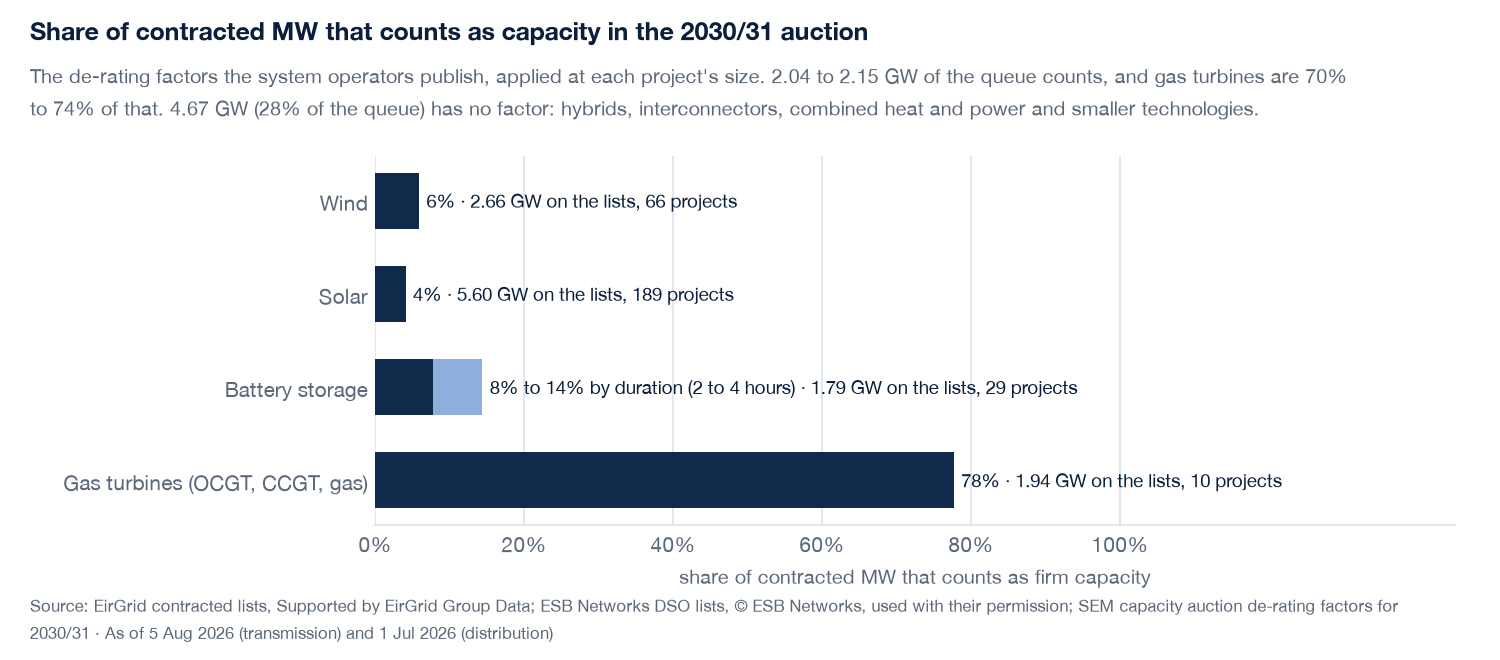
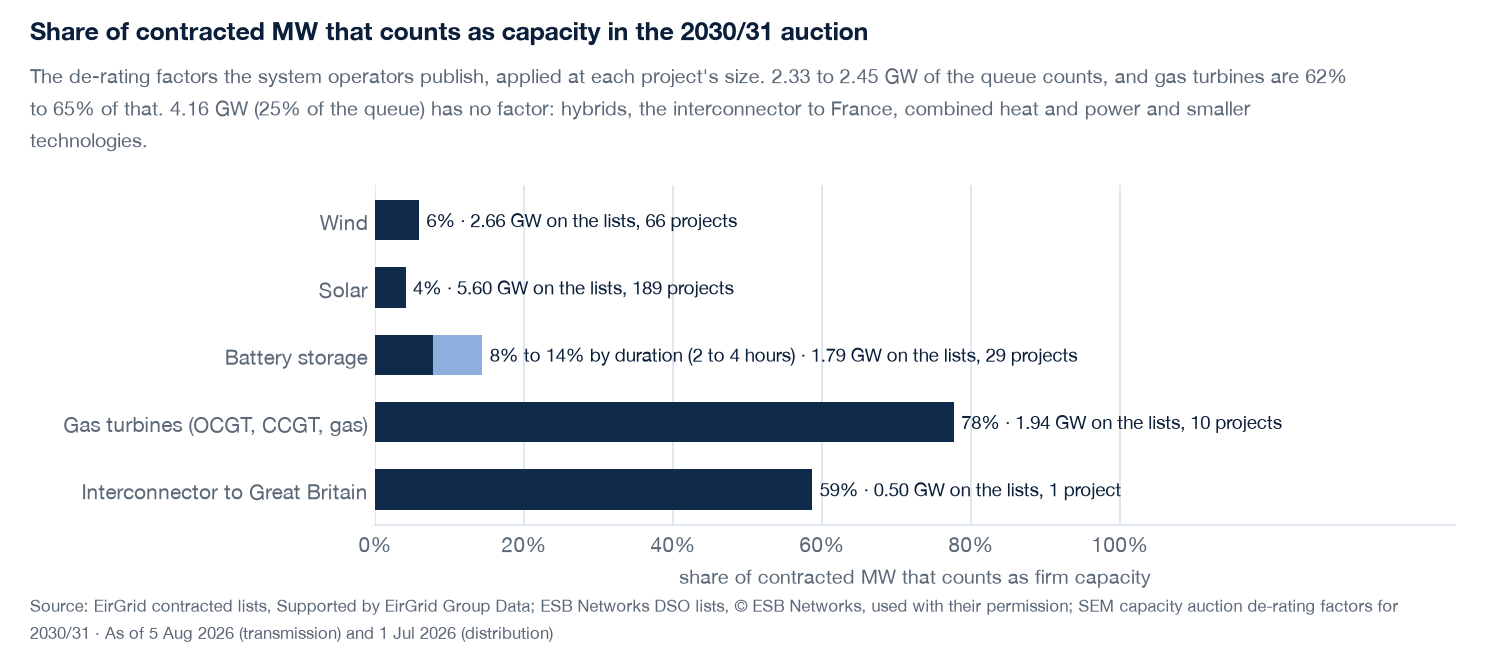
Layer 9: the Great Britain interconnector counts by the pack's printed curve
The pack's footnotes say the GB interconnector curve is already adjusted by its
external-market factor and that an EU interconnector is non-participating, so
Greenlink (504 MW) gets a factor and Celtic stays in the listed remainder.
Counts 2.04-2.15 GW becomes 2.33-2.45 GW; layer 10's deficit share 8%-17%.

diff --git a/site/components/Dashboard.tsx b/site/components/Dashboard.tsx
@@ -680,7 +680,7 @@ export function Dashboard({ report }: { report: Report }) {
               <Figure
                 id="fig-firm"
                 title={`Of the ${gw(f.applied_mw / 1000)} of the queue with a published factor, ${gw(f.totals.latest.low_mw / 1000)} to ${gw(f.totals.latest.high_mw / 1000)} counts as capacity in the ${f.latest_year} auction${gasText}`}
-                subtitle={`Share of each technology's contracted MW that the capacity auction counts, from the de-rating factors the system operators publish for the ${f.latest_year} auction, applied at each project's size. A battery's duration is not on the lists, so storage is shown for ${f.storage_hours.low} and ${f.storage_hours.high} hours. ${mw(f.left_alone_mw)}${f.left_alone_share === null ? "" : ` (${pct(f.left_alone_share)} of the queue)`} has no factor applied: hybrids such as solar with a battery, interconnectors, combined heat and power, and smaller technologies. This is the auction's rule for what a megawatt is worth, not a forecast that a project connects and not what a megawatt delivers in an hour.`}
+                subtitle={`Share of each technology's contracted MW that the capacity auction counts, from the de-rating factors the system operators publish for the ${f.latest_year} auction, applied at each project's size. A battery's duration is not on the lists, so storage is shown for ${f.storage_hours.low} and ${f.storage_hours.high} hours. ${mw(f.left_alone_mw)}${f.left_alone_share === null ? "" : ` (${pct(f.left_alone_share)} of the queue)`} has no factor applied: hybrids such as solar with a battery, the interconnector to France (which the auction treats as outside it), combined heat and power, and smaller technologies. This is the auction's rule for what a megawatt is worth, not a forecast that a project connects and not what a megawatt delivers in an hour.`}
                 footer={`Source: ${f.sources.map((x) => `${x.name}, read ${x.checked_on}`).join("; ")}; ${EIRGRID}; ${ESB}`}
                 table={{
                   headings: ["Technology", "Projects", "Contracted", `Counts, ${f.prior_year}`, `Counts, ${f.latest_year}`, `Share, ${f.latest_year}`],

diff --git a/src/iegrid/derating.py b/src/iegrid/derating.py
@@ -15,11 +15,14 @@ What it applies, and what it leaves alone, is stated on the page and in the READ
 
     wind, solar        Table 5, one factor each
     gas turbine class  Table 1's Gas Turbine curve at the unit's size (OCGT, CCGT, gas)
+    interconnector     Table 1's Interconnector curve at the unit's size, for an interconnector to Great
+                       Britain (Greenlink). The pack says that curve is already adjusted by its external-market
+                       factor, so it is applied as printed. The pack treats an interconnector to another EU
+                       state (Celtic, to France) as non-participating capacity in the auction: no factor
     battery            Table 3 (other storage) at the unit's size, for 2 and 4 hours of storage:
                        the lists do not say how long a battery lasts, so both are shown
     everything else    no factor applied, listed with its MW: hybrids (a solar-plus-battery
-                       project is one MEC, and the pack gives no hybrid class), interconnectors
-                       (their factor is scaled by an external-market factor not read here),
+                       project is one MEC, and the pack gives no hybrid class), the EU interconnector,
                        biomass, hydro, CHP, reciprocating engines, wave, synchronous condensers
 
 The factor is the pack's marginal factor for the unit's size, which is how the pack tells an
@@ -101,6 +104,7 @@ def extract(pack: Path) -> tuple[list[dict], dict]:
     for page, bands in t1:
         for lo, hi, vals in bands:
             add(1, "Gas Turbine", "", lo, hi, vals[1], page)
+            add(1, "Interconnector", "", lo, hi, vals[4], page)
     t3_all = []
     for p, t in pages.items():
         if p in (7, 8):
@@ -167,6 +171,8 @@ CLASS_OF = {
     "Battery": "Other Storage", "Battery Storage": "Other Storage",
     "OCGT": "Gas Turbine", "CCGT": "Gas Turbine", "Gas": "Gas Turbine", "Nat. Gas": "Gas Turbine",
 }
+# Greenlink joins Wales to Ireland (Great Britain); Celtic joins Cork to France (an EU state)
+GB_INTERCONNECTORS = ("Greenlink",)
 SOURCES = ("eirgrid.tso_contracted_wind", "eirgrid.tso_contracted_nonwind",
            "esb.dso_contracted_renewable", "esb.dso_contracted_nonrenewable")
 
@@ -193,9 +199,12 @@ def build(con) -> dict | None:
     total = sum(float(p[5] or 0) for p in projects)
     classes: dict[str, dict] = {}
     left: dict[str, float] = {}
-    for _src, _asof, _ref, _name, tech, mec in projects:
+    for _src, _asof, _ref, name, tech, mec in projects:
         mw = float(mec or 0)
         cls = CLASS_OF.get(tech)
+        if tech == "Interconnector":
+            cls = "Interconnector" if any(g in name for g in GB_INTERCONNECTORS) else None
+            tech = tech if cls else name
         if cls is None:
             left[tech] = left.get(tech, 0.0) + mw
             continue
@@ -210,7 +219,8 @@ def build(con) -> dict | None:
             else:
                 c["by_year"][y] = c["by_year"].get(y, 0.0) + mw * factor(rows, y, cls, mw)
     labels = {"Wind": "Wind", "Solar": "Solar", "Other Storage": "Battery storage",
-              "Gas Turbine": "Gas turbines (OCGT, CCGT, gas)"}
+              "Gas Turbine": "Gas turbines (OCGT, CCGT, gas)",
+              "Interconnector": "Interconnector to Great Britain"}
 
     def at(c: dict, y: str) -> tuple[float, float]:
         if c["class"] == "Other Storage":
@@ -220,7 +230,7 @@ def build(con) -> dict | None:
     prior, latest = years[-2] if len(years) > 1 else years[-1], years[-1]
     out_classes = []
     totals = {y: [0.0, 0.0] for y in years}
-    for cls in ("Wind", "Solar", "Other Storage", "Gas Turbine"):
+    for cls in ("Wind", "Solar", "Other Storage", "Gas Turbine", "Interconnector"):
         c = classes.get(cls)
         if not c:
             continue

diff --git a/tests/test_derating.py b/tests/test_derating.py
@@ -110,5 +110,31 @@ def test_the_sum_counts_what_has_a_factor_and_lists_what_does_not():
     assert got["gas_share_low"] == pytest.approx(81.9 / tot["high_mw"], abs=0.002)
 
 
+def add_named(con, pid, order, tech, mw, name):
+    con.execute("insert into project_row values (?, ?, ?, 1, ?, ?, ?, ?, '', '', '', '', '', null, null, '', '', null)",
+                [pid, parse.PARSER_VERSION, order, f"TG{order}", name, tech, mw])
+
+
+def test_the_interconnector_to_great_britain_counts_by_the_printed_curve_and_the_one_to_france_does_not():
+    con = store.connect(":memory:")
+    other = pub(con, "eirgrid.tso_contracted_nonwind", "n")
+    add_named(con, other, 1, "Interconnector", 504.0, "Greenlink Interconnector")
+    add_named(con, other, 2, "Interconnector", 700.0, "Celtic Interconnector")
+    got = derating.build(con)
+    ic = next(c for c in got["classes"] if c["class"] == "Interconnector")
+    assert ic["nameplate_mw"] == 504.0
+    assert ic["latest"]["low_mw"] == round(504.0 * derating.factor(ROWS, "2030/31", "Interconnector", 504.0), 1)
+    assert ic["latest"]["low_share"] == 0.587      # the 500 to 510 MW band of the 2030/31 pack
+    # Celtic is left alone, by name, and its MW is still in the total
+    assert got["left_alone"] == [{"technology": "Celtic Interconnector", "mw": 700.0}]
+    assert got["contracted_mw"] == 1204.0 and got["applied_mw"] == 504.0
+
+
+def test_the_interconnector_curve_never_rises_and_is_adjusted_down_by_the_external_market_factor():
+    for year, top in (("2029/30", 0.572), ("2030/31", 0.625)):
+        assert derating.factor(ROWS, year, "Interconnector", 5.0) == top
+        assert derating.factor(ROWS, year, "Interconnector", 5000.0) < top
+
+
 def test_nothing_is_built_without_a_contracted_list():
     assert derating.build(store.connect(":memory:")) is None

diff --git a/src/iegrid/readme_charts.py b/src/iegrid/readme_charts.py
@@ -565,7 +565,7 @@ def firm(rep):
         else:
             note = f"{lo:.0%}"
         ax.text(hi + 0.01, yi, f"{note} · {c['nameplate_mw'] / 1000:.2f} GW on the lists, "
-                f"{c['projects']} projects", va="center", fontsize=9, color=TEXT)
+                f"{c['projects']} project{'' if c['projects'] == 1 else 's'}", va="center", fontsize=9, color=TEXT)
     ax.set_yticks(y, [c["label"] for c in classes])
     ax.invert_yaxis()
     ax.set_xlim(0, 1.45)
@@ -575,7 +575,7 @@ def firm(rep):
     fig.subplots_adjust(left=0.25, right=0.97)
     _frame(fig, title, f"The de-rating factors the system operators publish, applied at each "
            f"project's size. {finding} {f['left_alone_mw'] / 1000:.2f} GW "
-           f"({f['left_alone_share']:.0%} of the queue) has no factor: hybrids, interconnectors, "
+           f"({f['left_alone_share']:.0%} of the queue) has no factor: hybrids, the interconnector to France, "
            "combined heat and power and smaller technologies.",
            f"Source: {LISTS_CREDIT}; SEM capacity auction de-rating factors for {f['latest_year']} · "
            f"{_as_of(rep)}")

diff --git a/docs/layers/09-firm-capacity/README.md b/docs/layers/09-firm-capacity/README.md
@@ -15,10 +15,11 @@ much of the queue would count and which technologies carry it.
 | solar | 5,601 MW | 230 MW | 4% | 275 MW |
 | battery storage (2 to 4 hours) | 1,789 MW | 139 to 257 MW | 8% to 14% | 254 to 493 MW |
 | gas turbines (OCGT, CCGT, gas) | 1,944 MW | 1,511 MW | 78% | 1,560 MW |
-| **with a factor** | **11,990 MW** | **2.04 to 2.15 GW** | | 2.26 to 2.49 GW |
-| no factor applied | 4,668 MW | | | |
+| interconnector to Great Britain (Greenlink) | 504 MW | 296 MW | 59% | 266 MW |
+| **with a factor** | **12,494 MW** | **2.33 to 2.45 GW** | | 2.52 to 2.76 GW |
+| no factor applied | 4,164 MW | | | |
 
-Gas turbines are 16% of the nameplate that has a factor and 70% to 74% of what counts. Between the two
+Gas turbines are 16% of the nameplate that has a factor and 62% to 65% of what counts. Between the two
 auctions the factor for a battery fell by about half (a 4-hour battery of 100 MW: 0.275 to 0.143),
 wind by 6% and solar by 16%: the more of a technology is built or contracted, the less each further MW counts.
 
@@ -41,14 +42,20 @@ wind by 6% and solar by 16%: the more of a technology is built or contracted, th
 ## What it applies, and what it leaves alone
 
 Applied: wind and solar (Table 5, one factor each), gas turbines (Table 1's Gas Turbine curve at the
-project's size), battery storage (Table 3, other storage, at 2 and at 4 hours). The factor is the pack's
-marginal factor for a unit of that size, which is how the pack tells an applicant to use it.
+project's size), battery storage (Table 3, other storage, at 2 and at 4 hours), and the interconnector to Great
+Britain (Table 1's Interconnector curve at its size). The factor is the pack's marginal factor for a unit of that
+size, which is how the pack tells an applicant to use it. The pack's footnote says the interconnector curve to
+Great Britain is already adjusted by an external-market factor (0.65 for 2030/31), so it is applied as printed;
+the footnote's own arithmetic agrees (the 0-10 MW value of 0.625 is 0.65 of about 0.96, and 2029/30's 0.572 is
+0.60 of about 0.95).
 
 Left alone, and listed with its MW so nothing disappears: hybrids (solar plus battery, wind plus battery:
-one MEC, and the pack gives no hybrid class, so any factor would be a guess), interconnectors (their factor is
-scaled by an external-market factor that was not read), combined heat and power, reciprocating engines,
-biomass, hydro, wave and synchronous condensers. That is 4.67 GW, 28% of the queue, so the headline is about
-the 72% that has a factor.
+one MEC, and the pack gives no hybrid class, so any factor would be a guess), the Celtic interconnector to
+France (the pack's footnote 3 says an interconnector to another EU state is expected to be non-participating
+capacity in the 2030/31 auction, so it has no auction value, whatever the adequacy assessment counts), combined
+heat and power, reciprocating engines, biomass, hydro, wave and synchronous condensers. That is 4.16 GW, 25% of
+the queue, so the headline is about the 75% that has a factor. Which interconnector is to Great Britain is a
+fact about the project's name, kept as one constant in `derating.py` (Greenlink: Wales; Celtic: France).
 
 ## Risks, and what was done about them
 

diff --git a/PARKING.md b/PARKING.md
@@ -59,6 +59,6 @@ Format: `date | item | what would settle it | stone`
 - 2026-10-29 | Licence answered: the owner reports both ESB Networks and EirGrid confirmed permission. Not yet recorded: the exact scope and any credit wording they required (aggregates only, or project rows too; images in the README; public fixtures) | owner to share the replies' wording so the footers and docs/img match it | before the repo or page goes public
 - 2026-10-29 | Still to choose before publishing: host (the record uses Vercel), repo name and visibility, and removing the page's noindex / 127.0.0.1-only setup | owner's call | publish
 - 2026-10-29 | 37 non-wind unknown leavers: tested name+MEC matching against the held non-wind connected lists; 2 match (TG320 Lisdrumdoagh, TG336 Porterstown), 18 left after the last list (Aug 2022), 17 left before it and did not match | build a non-wind connected reader only once EirGrid publishes a connected list after Aug 2022 | a new connected list appears
-- 2026-10-29 | Firm-capacity layer (contracted MW de-rated by technology vs the GCS) is the best next layer but source-blocked: de-rating factors are in the SEM-O Initial Auction Information Pack (not found; the decision paper and the 2028/29 provisional results report don't carry them) and eirgrid.ie answers 403 | owner downloads the T-4 Information Pack and the newest GCS into data/sources/, then build | firm-capacity layer
-- 2026-10-29 | Firm capacity built (layer 9) once the SEM-O Information Packs were read at source. Open: the Generation Capacity Statement (capacity requirement, so a need figure) is still unreadable (cms.eirgrid.ie 403); interconnector factor needs the external-market factor from footnote 2 of the pack; hybrids have no class | owner downloads the newest GCS to data/sources/ | queue vs need
+- 2026-10-29 | (Resolved the same day, see the next entry.) Firm-capacity layer was source-blocked: de-rating factors are in the SEM-O Initial Auction Information Pack (not found; the decision paper and the 2028/29 provisional results report don't carry them) and eirgrid.ie answers 403 | owner downloads the T-4 Information Pack and the newest GCS into data/sources/, then build | firm-capacity layer
+- 2026-10-29 | Firm capacity built (layer 9) once the SEM-O Information Packs were read at source. Settled since: the GCS is now AIRAA (layer 10) and the interconnector factor is applied (ninth session). Open: hybrids have no class | owner downloads the newest GCS to data/sources/ | queue vs need
 - 2026-10-29 | Layer 10 built from the AIRAA 2026-2035 (the Generation Capacity Statement's successor, served from www.eirgrid.ie). Open: the year-by-year MW deficit is in a chart only, not read; the all-island and Northern Ireland sides are left out | owner reads the chart if the deficit matters | any time

diff --git a/docs/layers/BRING-IN.md b/docs/layers/BRING-IN.md
@@ -94,7 +94,7 @@ session. No new step is needed beyond the ones above. On this branch's build:
 New: `src/iegrid/derating.py`, `src/iegrid/data/derating.csv`, `tests/test_derating.py`, `docs/layers/09-firm-capacity/README.md`,
 the page's firm-capacity section, `docs/img/firm.png`. Changed: `report.py` (one optional field), `site/lib/report.ts`,
 `Dashboard.tsx`, `site/tests/numbers.test.tsx` (a third perturbed copy), the fixture. Expected on the 29 Oct store:
-`uv run pytest -q` 355 passed; `pnpm test` 24 passed; 11,990 MW of 16,658 MW has a factor; 2.04 to 2.15 GW counts in 2030/31.
+`uv run pytest -q` 355 passed; `pnpm test` 24 passed; (after the interconnector change: 12,494 MW of 16,658 MW has a factor; 2.33 to 2.45 GW counts in 2030/31; first build: 11,990 MW, 2.04 to 2.15 GW).
 The saved packs live in `data/sources/` (not in git); the CSV is what the report reads, so the weekly run needs no download.
 
 ## Layer 10: queue vs plan (branch `layer-queue-vs-plan`, PR)
@@ -102,7 +102,7 @@ The saved packs live in `data/sources/` (not in git); the CSV is what the report
 New: `src/iegrid/adequacy.py`, `src/iegrid/data/adequacy.csv`, `tests/test_adequacy.py`, `docs/layers/10-queue-vs-plan/README.md`,
 `docs/img/plan.png`, the page section. Changed: `report.py` (one optional field), `site/lib/report.ts`, `Dashboard.tsx`,
 `numbers.test.tsx`, the fixture. On the 29 Oct store: gas 1,944 MW against 1,900 MW expected; storage +660 MW (37% of
-1,789 MW); stated deficit 9% to 20% of the de-rated queue. The chart is drawn by `readme_charts.py` and shown in the main README.
+1,789 MW); stated deficit 8% to 17% of the de-rated queue (9% to 20% before the interconnector change). The chart is drawn by `readme_charts.py` and shown in the main README.
 
 ## Not done, on purpose
 

diff --git a/docs/layers/10-queue-vs-plan/README.md b/docs/layers/10-queue-vs-plan/README.md
@@ -15,11 +15,11 @@ and the date it was read.
 |---|---|---|
 | new gas | 1,944 MW of gas turbines (OCGT, CCGT, gas) | 2,450 MW successful in capacity auctions and not yet operating, of which 1,900 MW expected to deliver |
 | storage | 1,789 MW of batteries | storage rises from 1,140 MW (2026) to 1,800 MW (2029): +660 MW, 37% of the battery queue |
-| need | queue counts for 2.04 to 2.15 GW in the 2030/31 auction (layer 9) | outside the 3-hour standard in 2026-28 (base) and 2026-30 and 2033-35 (secure); stated secure deficit around 200 MW rising to over 400 MW in 2034 |
+| need | queue counts for 2.33 to 2.45 GW in the 2030/31 auction (layer 9) | outside the 3-hour standard in 2026-28 (base) and 2026-30 and 2033-35 (secure); stated secure deficit around 200 MW rising to over 400 MW in 2034 |
 
 So the gas on the contracted lists is the size of the assessment's whole expectation for new gas (1.02 times),
 and the assessment already assumes about a third of the battery queue arrives. The stated deficit, around 200
-to over 400 MW, is 9% to 20% of what the queue counts for. Read plainly: the system's remaining gap is small
+to over 400 MW, is 8% to 17% of what the queue counts for. Read plainly: the system's remaining gap is small
 next to the queue, so how fast and how much of the queue converts, not its size, decides adequacy.
 
 ## The six questions

diff --git a/docs/layers/00-decisions.md b/docs/layers/00-decisions.md
@@ -257,3 +257,13 @@ words (a chart carries the year-by-year values, and charts are not read); variab
 the same reason. It was built in its own worktree and branch (`layer-queue-vs-plan`) and opened as a PR,
 because the shared checkout was in use by the README-charts work.
 
+## Ninth session (29 Oct 2026): the interconnector gets a factor
+
+The pack's footnotes settled the open interconnector question. Footnote 2: the Great Britain interconnector
+curve "has been adjusted by" an external-market factor (0.65 in 2030/31), so Table 1's printed column is applied
+as it stands, to Greenlink (504 MW: 296 MW counts, 59%). Footnote 3: an interconnector to another EU state is
+expected to be non-participating in the 2030/31 auction, so Celtic (700 MW, to France) keeps no factor and stays in
+the listed remainder. Effect on layer 9: with a factor 11,990 to 12,494 MW; counts 2.04 to 2.15 GW becomes 2.33
+to 2.45 GW; gas's share of it 70% to 74% becomes 62% to 65%. Layer 10's deficit share becomes 8% to 17% of the
+de-rated queue (it was 9% to 20%). Earlier figures in this file are left as the record of what was said then.
+

diff --git a/README.md b/README.md
@@ -56,7 +56,7 @@ As a check, the two publishers' wind lists add up to within 3% of the national t
 
 ![Wind capacity on the lists against the published national total](docs/img/external.png)
 
-Under the capacity auction's de-rating factors, about 2.1 GW of the 12 GW with a published factor counts as firm capacity, and gas turbines make up about 70% of that.
+Under the capacity auction's de-rating factors, about 2.4 GW of the 12.5 GW with a published factor counts as firm capacity, and gas turbines make up about 62% to 65% of that.
 
 ![Share of contracted MW that counts as capacity](docs/img/firm.png)
 
